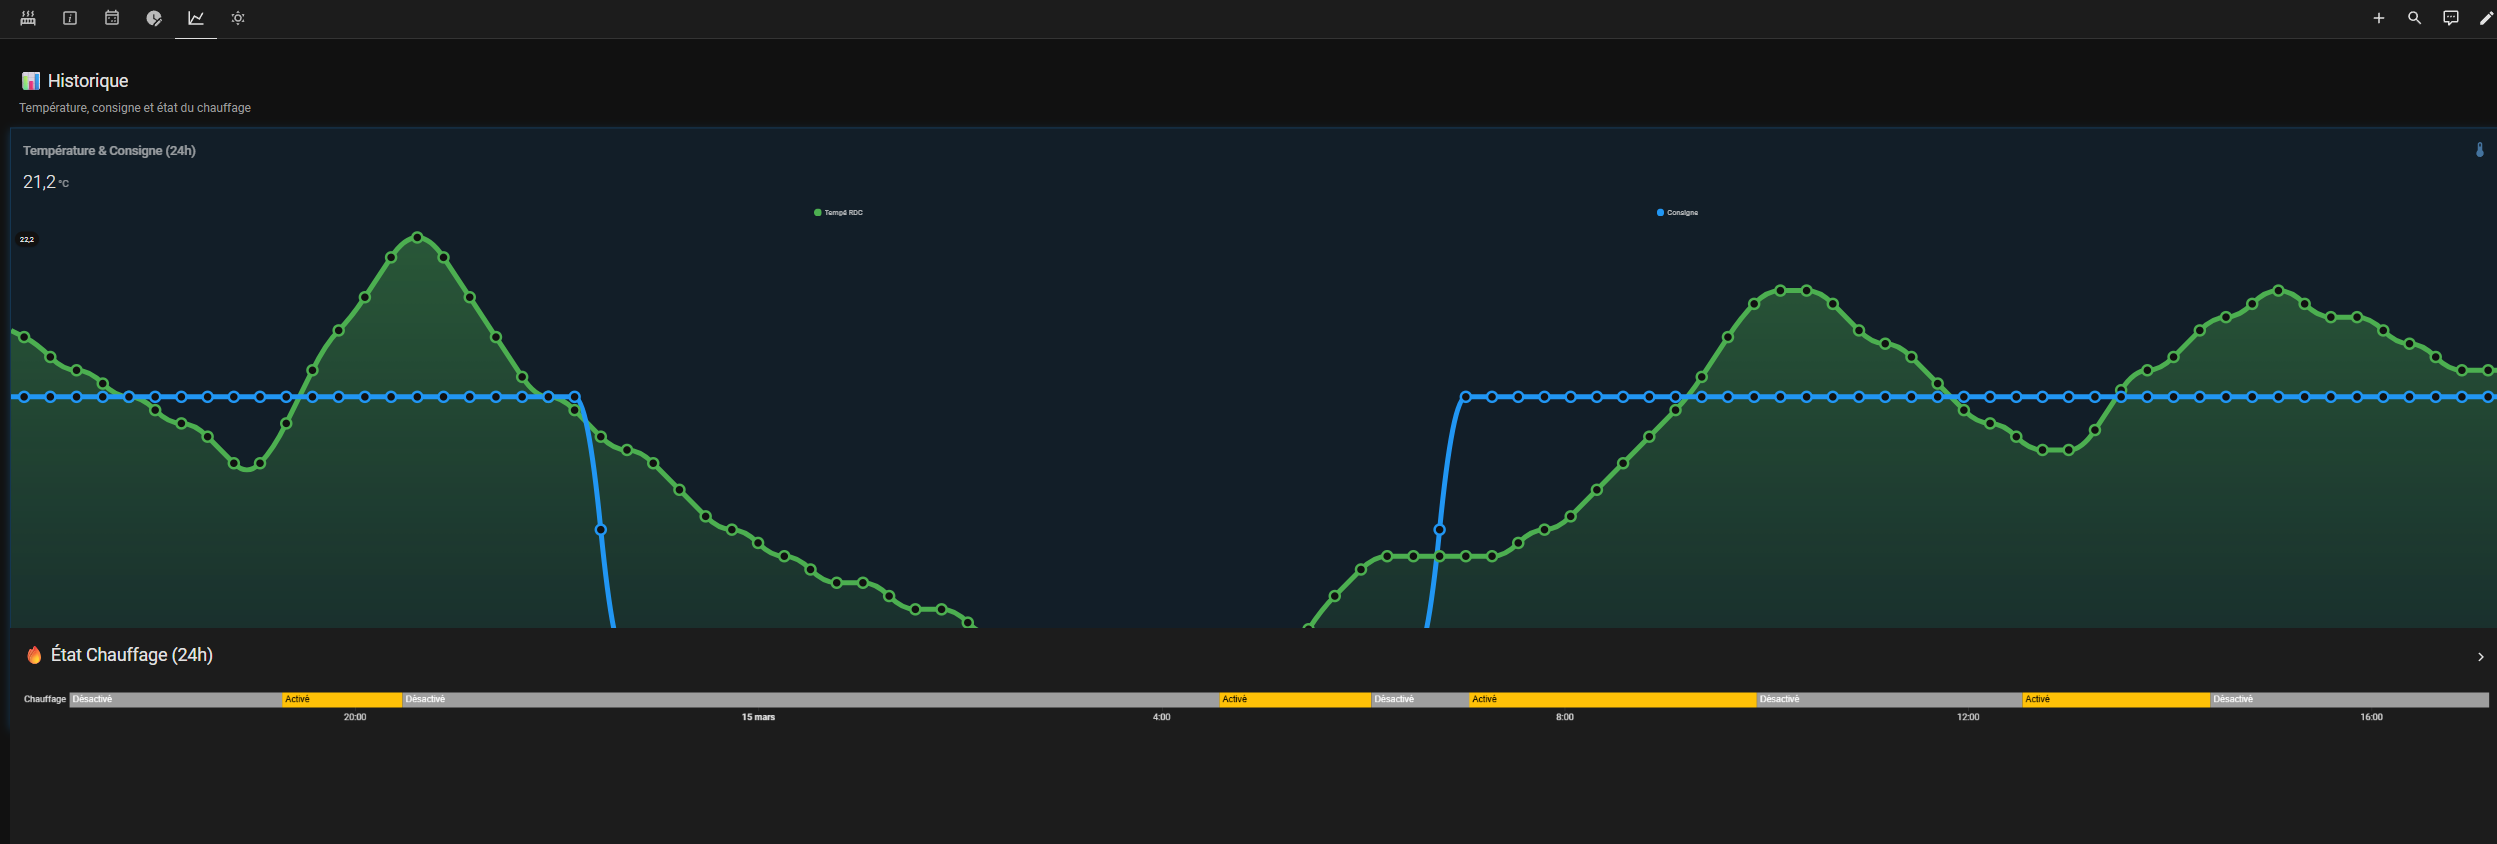
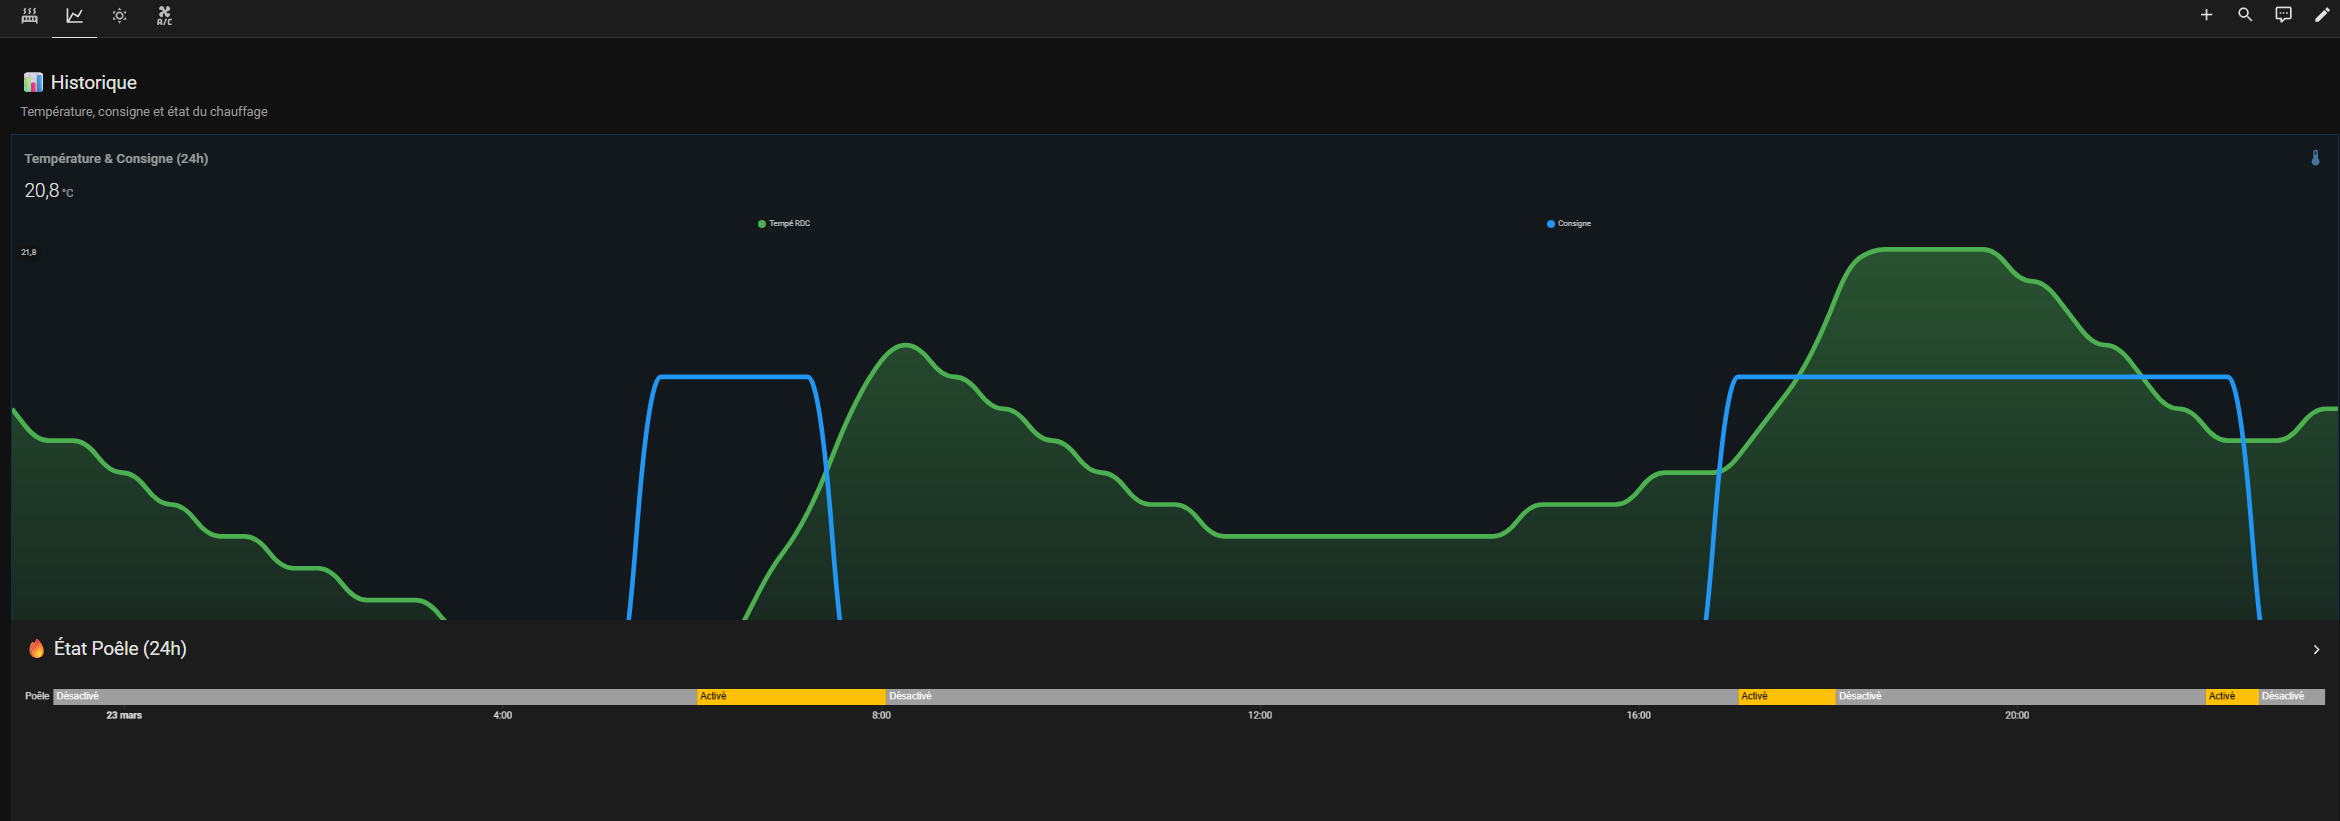
updates chauffage et Modes Planning

diff --git a/chauffage/README.md b/chauffage/README.md
@@ -7,19 +7,16 @@ Le dashboard est optimisé pour une tablette 8/10 pouces en mode paysage. Mais l
 
 Pluieurs vues dans le tableau pour allèger la navigation :
 - Chauffage
-- Etat Planning
-- Paramétrage Planning : Configuration des dates début/Fin de chaque mode 1. 🛫Vacances → 2. ✋Manuel → 3. 🔥Boost → 4. 💼Télétravail → 5. 🏖Vac. Maison → 6. 🎉Weekend+ → 7. 📅Planning Normal → 8. 💚Éco. Mode Manuel et Mode Boost disponible. Synchrionisation (ou pas) des dates de vacances Scolaire pour parmamétrage auto du mode. Synchrionisation (ou pas) des Télétravails paramétrés dans le caldendrier Google avec Gestion de "blocs" pour parmamétrage auto du mode. 
-- Configuration des horaires pour chaque mode de planning (Normal / Vacances à la maison / Télétravail / Weekend Prolongé)
-- Historique pour voir quand le chauffage se déclenche et les températures mesurées et de consigne sur 24H
+- Historique pour voir quand le chauffage se déclenche et les températures mesurées et de consigne sur 24H.
+- Mode Saisonnier pour désactiver contact Sec du Poêle à granulés et basculer les climatisations en mode Clim été / Chauffage Hiver
+- Climatisation : Préparation du pilotage des climatisation individuellement par pièce (en contruction)
 
 ## Dashboard Chauffage
 
 ![Dashboard : Vue "Chauffage"](screenshots/dashboard_vue_chauffage.png)
-![Dashboard : Vue "Etat Planning"](screenshots/dashboard_vue_Etat_Planning.png)
-![Dashboard : Vue "Paramétrage Planning"](screenshots/dashboard_vue_Parametrage_Planning.png)
-![Dashboard : Vue "Config Horaires"](screenshots/dashboard_vue_Config_Horaires.png)
 ![Dashboard : Vue "Historique"](screenshots/dashboard_vue_Historique.png)
 ![Dashboard : Vue "Mode Saisonnier & Consignes"](screenshots/dashboard_vue_Mode_Saisonnier_et_Consignes.png)
+![Dashboard : Vue "Climatisation"](screenshots/dashboard_vue_climatisation.png)
 
 Le dossier contient :
 - `helpers.yaml` — helpers HA (input_number, input_boolean, input_datetime, template sensors)

diff --git a/modes-planning/README.md b/modes-planning/README.md
@@ -3,7 +3,9 @@
 Gestion des différents modes de Planning.
 Détachement de la gestion du chauffage car utilisés sur plusieurs de mes automations
 
-
+- Etat Planning
+- Paramétrage Planning : Configuration des dates début/Fin de chaque mode 1. 🛫Vacances → 2. ✋Manuel → 3. 🔥Boost → 4. 💼Télétravail → 5. 🏖Vac. Maison → 6. 🎉Weekend+ → 7. 📅Planning Normal → 8. 💚Éco. Mode Manuel et Mode Boost disponible. Synchrionisation (ou pas) des dates de vacances Scolaire pour parmamétrage auto du mode. Synchrionisation (ou pas) des Télétravails paramétrés dans le caldendrier Google avec Gestion de "blocs" pour parmamétrage auto du mode. 
+- Configuration des horaires pour chaque mode de planning (Normal / Vacances à la maison / Télétravail / Weekend Prolongé)
 
 ## Dashboards Modes Planning
 
